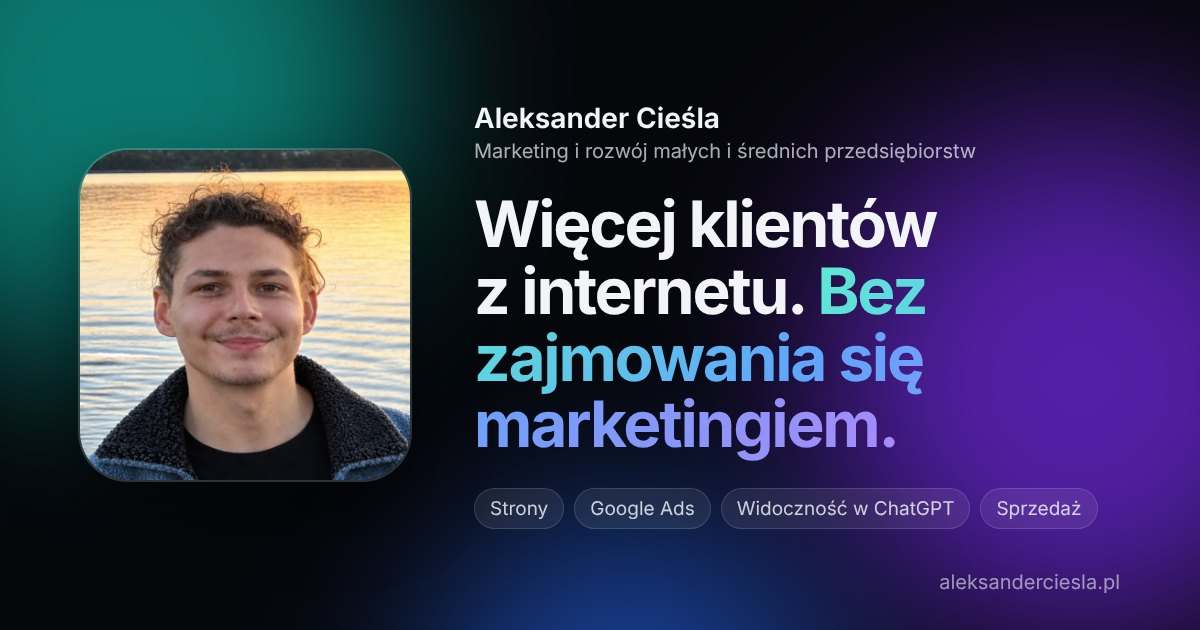
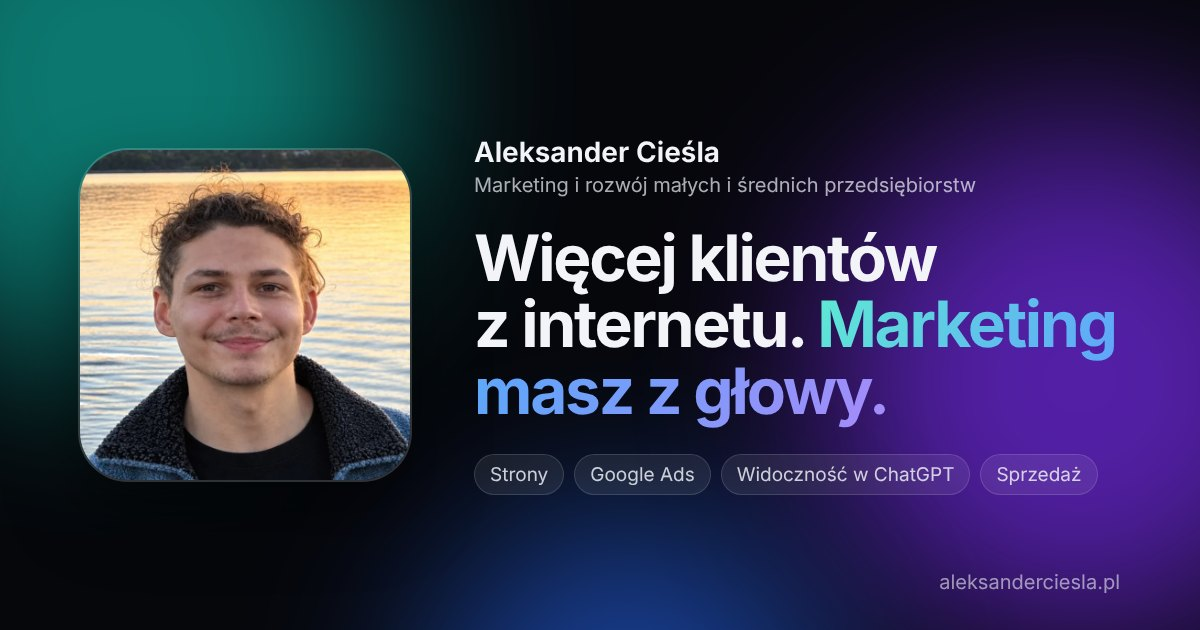
Hasło w hero: „Marketing masz z głowy.” zamiast „Bez zajmowania się marketingiem.”
Na prośbę Olka (26.11.2026); ten sam tekst w obrazku podglądu linku.

Claude-Session: https://claude.ai/code/session_01FN5q9WTuLpgCbv6x5BR87y

Changed region(s): [[0.37, 0.1508, 0.9558, 0.8444]]

diff --git a/site/scripts/og.html b/site/scripts/og.html
@@ -19,6 +19,6 @@ h1{font-size:64px;line-height:1.04;letter-spacing:-.035em;margin:0 0 30px;font-w
 <div class="o" style="width:420px;height:420px;left:420px;bottom:-300px;background:#2563eb;opacity:.6"></div>
 <div class="wrap"><img src="aleksander-ciesla-portret.webp"><div>
 <p class="n">Aleksander Cieśla</p><p class="r">Marketing i rozwój małych i średnich przedsiębiorstw</p>
-<h1>Więcej klientów z&nbsp;internetu. <span class="g">Bez zajmowania się marketingiem.</span></h1>
+<h1>Więcej klientów z&nbsp;internetu. <span class="g">Marketing masz z&nbsp;głowy.</span></h1>
 <div class="t"><span>Strony</span><span>Google Ads</span><span>Widoczność w ChatGPT</span><span>Sprzedaż</span></div>
 </div></div><div class="d">aleksanderciesla.pl</div></body></html>
